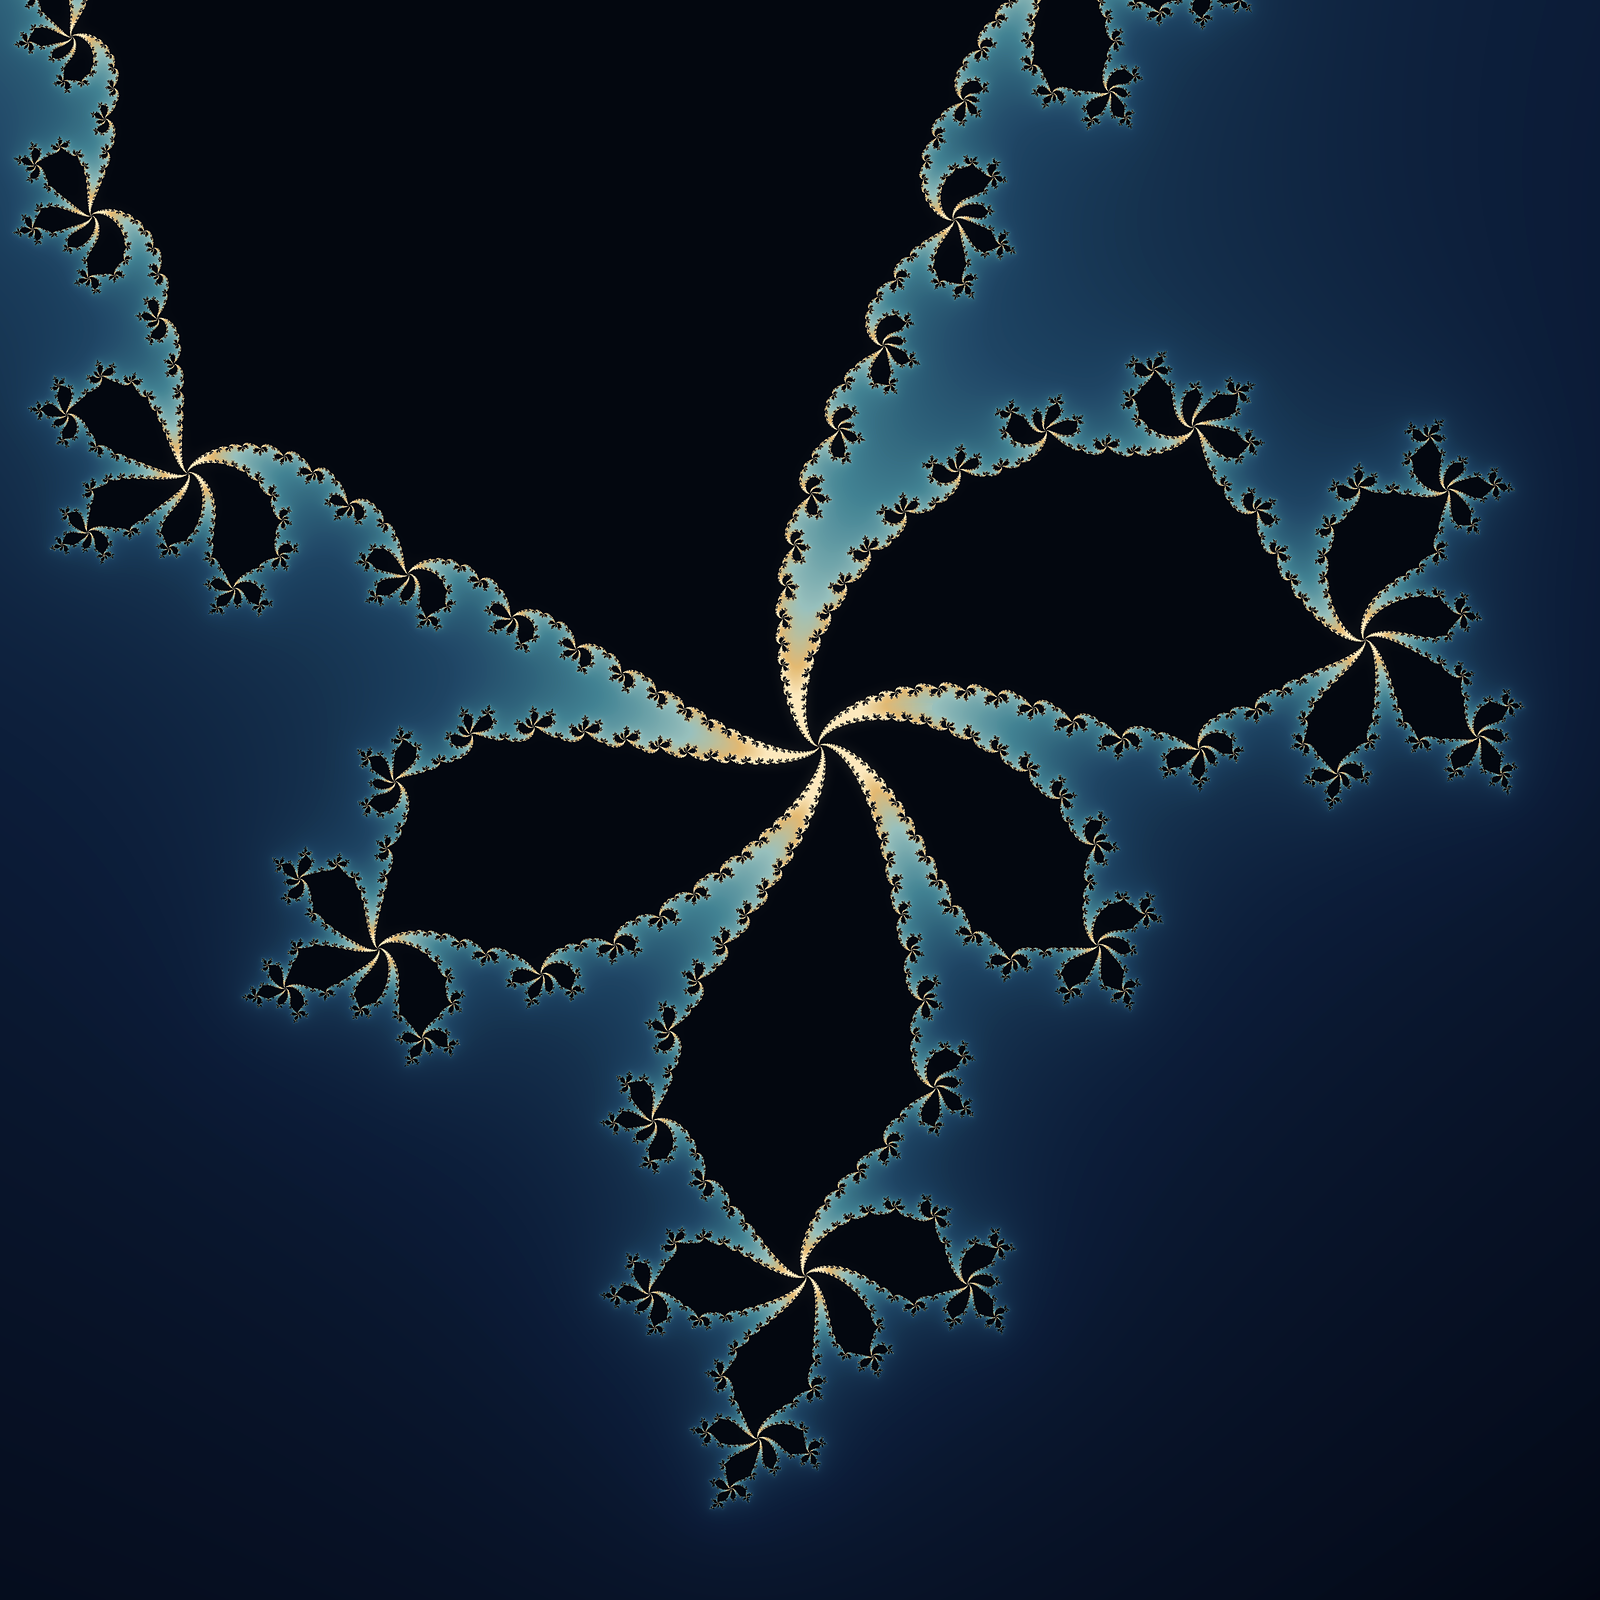
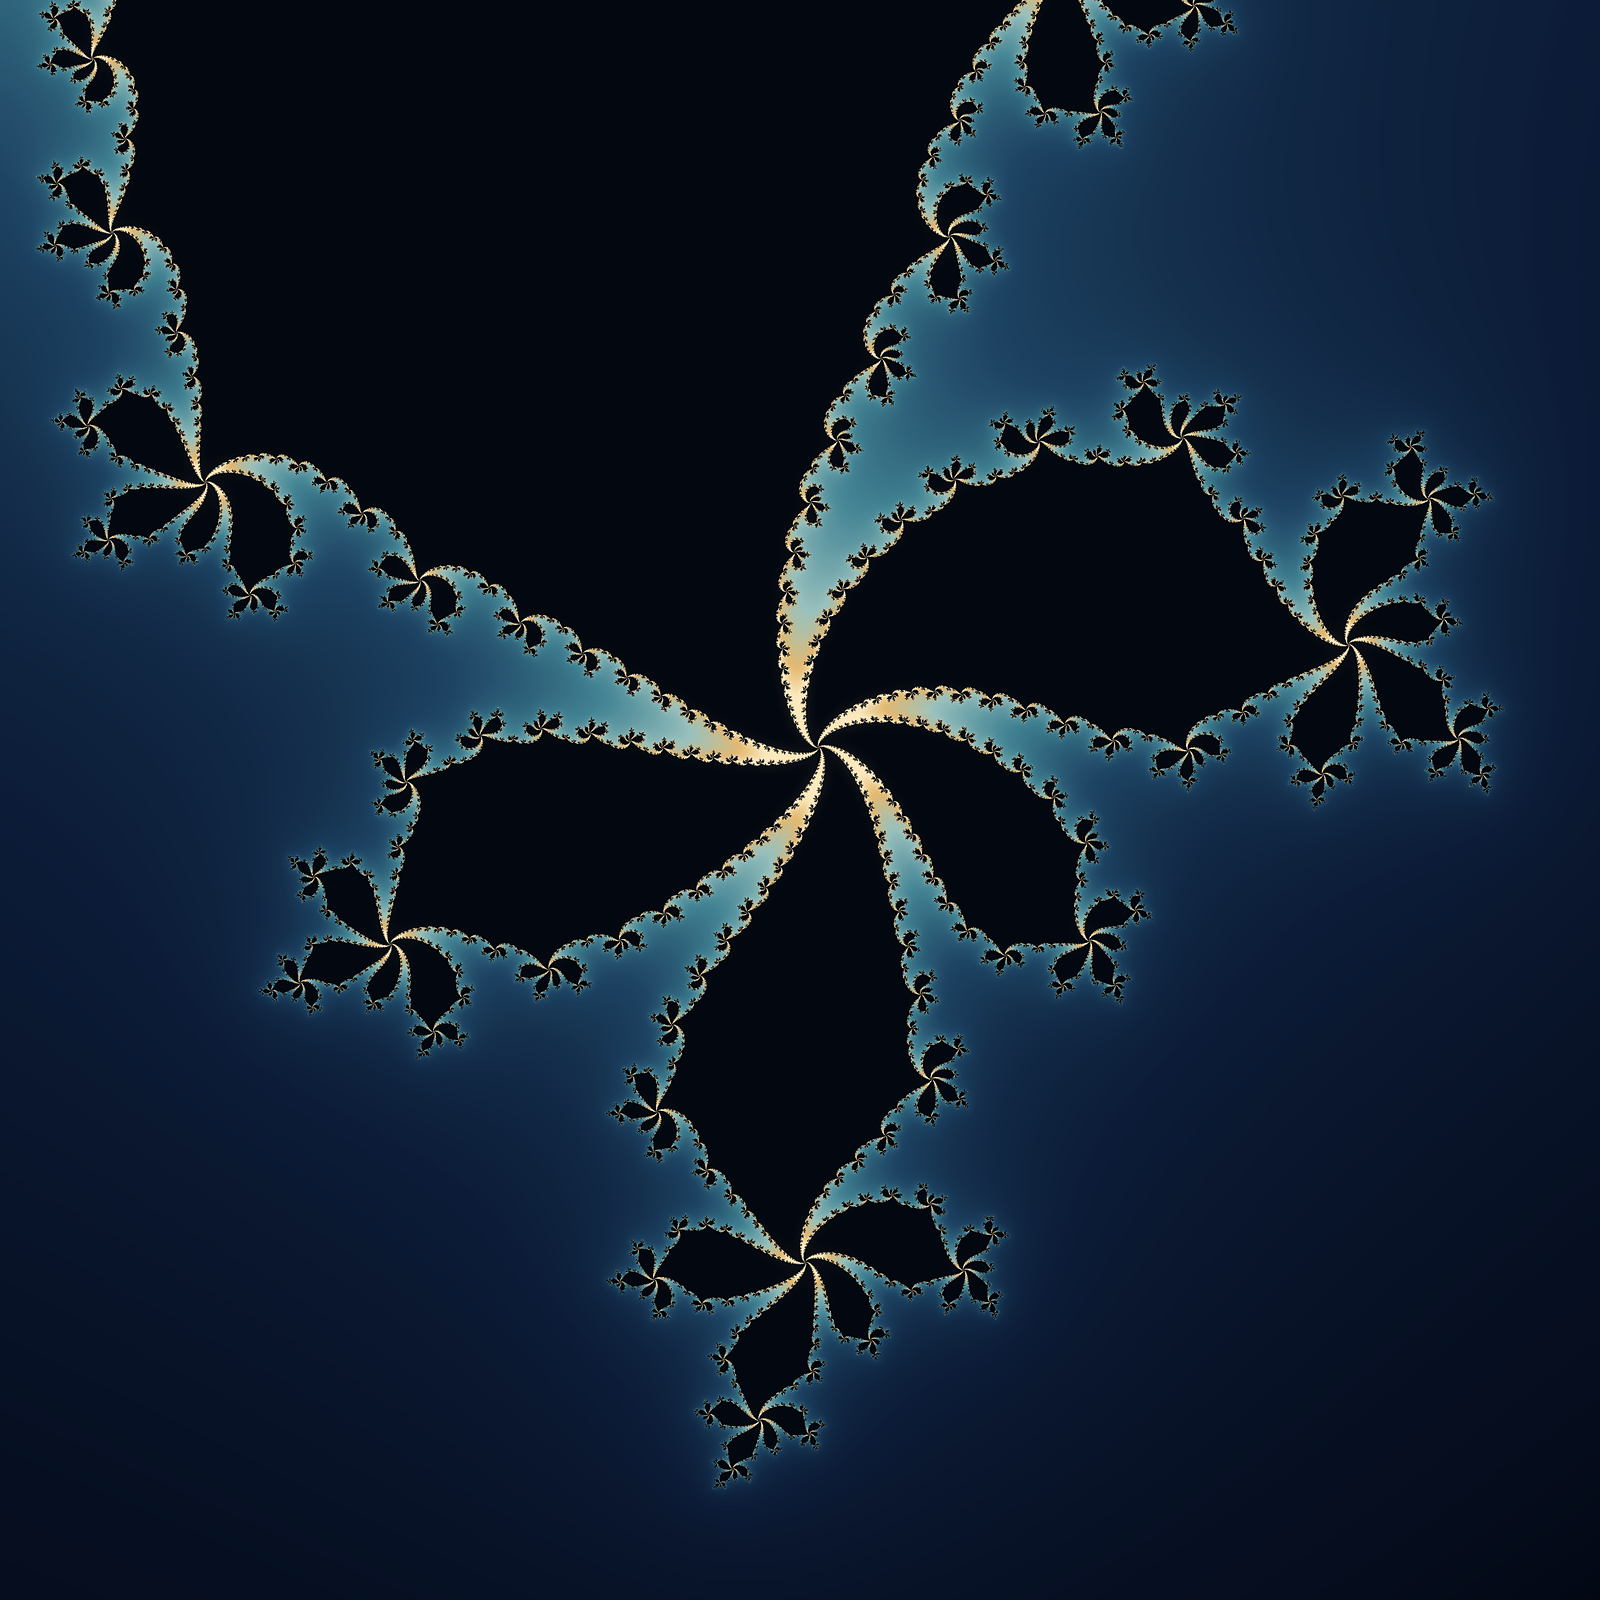
Give Julia filigree more breathing room

Changed region(s): [[0.0, 0.0, 0.9688, 0.9375]]

diff --git a/julia_render.py b/julia_render.py
@@ -161,7 +161,7 @@ def main():
         width=output_size * supersample,
         height=output_size * supersample,
         center=(-0.105, 0.755),
-        scale=0.235,
+        scale=0.242,
         c=complex(-0.513, 0.553),
         max_iter=500,
         escape_radius=16.0,
